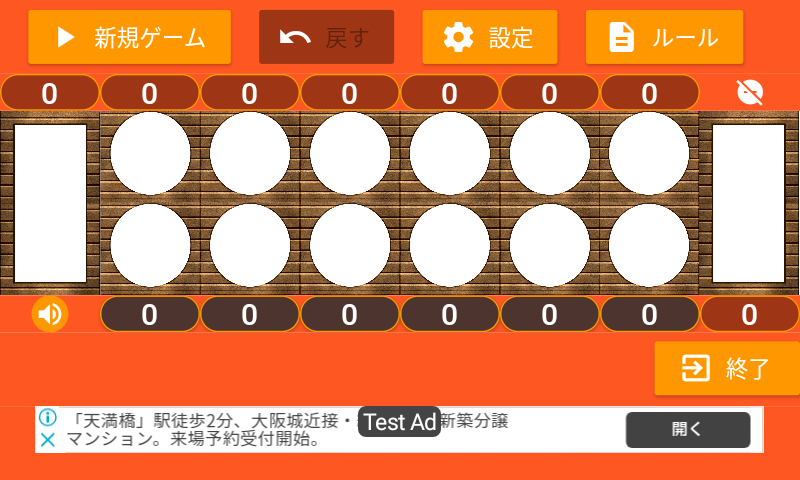
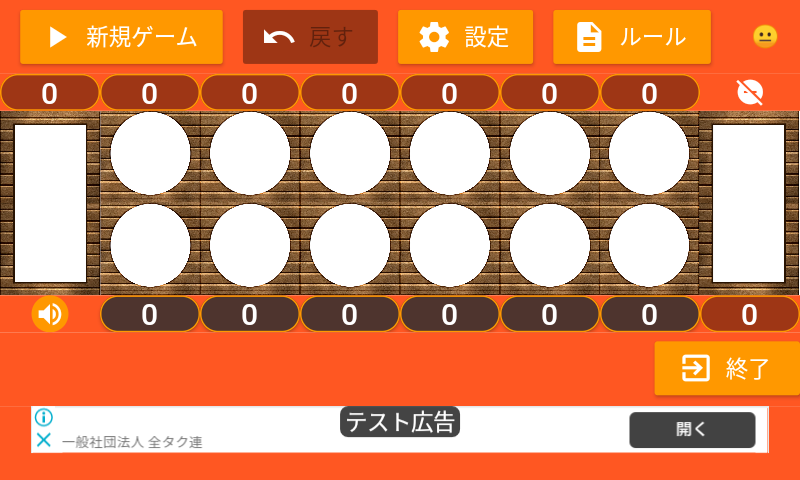
refactor: mancalanuts.md update

Changed region(s): [[0.0, 0.0, 0.9688, 0.1562], [0.0312, 0.8438, 0.6562, 0.9375], [0.7812, 0.8438, 0.9688, 0.9375]]

diff --git a/project/2020-08-10/mancalanuts.html b/project/2020-08-10/mancalanuts.html
@@ -195,11 +195,10 @@ MathJax.Hub.Config({
     <div class="container-narrow">
       <div class="row-fluid">
         <div class="span3">
-        <a href="https://twitter.com/share" class="twitter-share-button"{count} data-via="SappierBoy">Tweet</a>
+        <a href="https://twitter.com/share" class="twitter-share-button" data-via="SappierBoy">Tweet</a>
         <script>!function(d,s,id){var js,fjs=d.getElementsByTagName(s)[0],p=/^http:/.test(d.location)?'http':'https';if(!d.getElementById(id)){js=d.createElement(s);js.id=id;js.src=p+'://platform.twitter.com/widgets.js';fjs.parentNode.insertBefore(js,fjs);}}(document, 'script', 'twitter-wjs');</script>
         </div>
-        <div class="span9"
-             <!-- Html Elements for Search -->
+        <div class="span9" html elements for search>
              <div id="search-container" align="right">
                <input type="text" id="search-input" placeholder="search...">
                <ul id="results-container"></ul>
@@ -230,16 +229,16 @@ MathJax.Hub.Config({
       <span>10 August 2020</span>
     </div>
     <div class="content">
-      <p><a href="https://taimienphi.vn/download-mancala-nuts-90337"><img src="/images/tmp2.png" alt="マンカラアプリ" title="マンカラ ナッツ" width="155" height="60" /></a>
-<a href="https://play.google.com/store/apps/details?id=mancala.io.github.happyclam"><img src="/images/ja_badge_web_generic.png" alt="マンカラアプリ" title="マンカラ ナッツ" width="155" height="60" /></a>
-<a href="https://www.amazon.co.jp/happyclam-マンカラ-ナッツ/dp/B08D8QVVQY/ref=sr_1_10?__mk_ja_JP=カタカナ&amp;dchild=1&amp;keywords=マンカラ&amp;qid=1595382601&amp;s=mobile-apps&amp;sr=1-10"><img src="/images/amazon-appstore-badge-jp-white.png" alt="マンカラアプリ" title="マンカラ ナッツ" width="155" height="60" /></a>
-<br /><a href="https://taimienphi.vn" title="download">taimienphi.vn</a></p>
+      <p><a href="https://taimienphi.vn/download-mancala-nuts-90337"><img src="/images/tmp2.png" alt="マンカラアプリ" title="マンカラ ナッツ" width="155" height="60"></a>
+<a href="https://play.google.com/store/apps/details?id=mancala.io.github.happyclam"><img src="/images/ja_badge_web_generic.png" alt="マンカラアプリ" title="マンカラ ナッツ" width="155" height="60"></a>
+<a href="https://www.amazon.co.jp/happyclam-%E3%83%9E%E3%83%B3%E3%82%AB%E3%83%A9-%E3%83%8A%E3%83%83%E3%83%84/dp/B08D8QVVQY/ref=sr_1_10?__mk_ja_JP=%E3%82%AB%E3%82%BF%E3%82%AB%E3%83%8A&amp;dchild=1&amp;keywords=%E3%83%9E%E3%83%B3%E3%82%AB%E3%83%A9&amp;qid=1595382601&amp;s=mobile-apps&amp;sr=1-10"><img src="/images/amazon-appstore-badge-jp-white.png" alt="マンカラアプリ" title="マンカラ ナッツ" width="155" height="60"></a>
+<br><a href="https://taimienphi.vn" title="download">taimienphi.vn</a></p>
 
 <h3 id="マンカラ-ナッツについて">「マンカラ ナッツ」について</h3>
 <p>　対人戦の途中でＡＩ対戦に切り替えたり、ＡＩ対戦の途中で対人戦に切り替えたりして、マンカラの特定の局面での最善手の研究にも使えるように配慮したマンカラアプリです。</p>
 
 <h3 id="ルール">ルール</h3>
-<p>　数あるマンカラのルールの中で、<code>カラハ（Karah）</code>と呼ばれるルールを採用しています。<br />
+<p>　数あるマンカラのルールの中で、<code>カラハ（Karah）</code>と呼ばれるルールを採用しています。<br>
 　上下２列に並んだ６つのポケットに豆が入っていて、上がAI、下があなたです。丸い６つのポケットからどれかを選んで豆を取り出し、反時計回りに豆を一つずつポケットに撒いていきます。どちらかの６つのポケットが全て空になったらゲーム終了し、右側の四角い自分の貯蔵所に残った豆の数で勝ち負けを判定します。</p>
 <ul>
   <li>相手の貯蔵所には豆を撒きません。</li>
@@ -256,57 +255,112 @@ MathJax.Hub.Config({
   <li>豆選択（コーヒー、ピスタチオ、アーモンド）機能</li>
   <li>豆の数選択機能（３個、４個、５個から選択）</li>
   <li>対戦成績保存機能（ゲーム途中で設定を変更した場合は対戦成績には記録されません）</li>
-  <li>多言語対応、日<code>ja</code>, 英<code>en</code>, 越<code>vi</code></li>
+  <li>多言語対応、日<code>ja</code>, 英<code>en</code>, 越<code>vi</code>
+</li>
+  <li>AI対戦時の形勢判断Emoji表示機能</li>
 </ul>
 
 <h3 id="ａｉ対戦">ＡＩ対戦</h3>
 <div style="width:320px; margin: 0 auto;">
-  <p><a href="/images/mancala_screen1.png"><img src="/images/mancala_screen1.png" alt="ＡＩ対戦画面" title="ＡＩ対戦画面" /></a></p>
+  <p><a href="/images/mancala_screen1.png"><img src="/images/mancala_screen1.png" alt="ＡＩ対戦画面" title="ＡＩ対戦画面"></a></p>
 </div>
 
 <ul>
-  <li><code>新規ゲーム(New Game)</code>ボタンで新規対局開始されます。</li>
+  <li>
+<code>新規ゲーム(New Game)</code>ボタンで新規対局開始されます。</li>
   <li>ＡＩの対戦途中に強さ設定を変更すると、そのゲーム結果は対戦成績に記録されません。</li>
   <li>ＡＩ対戦の場合は<code>戻す(Undo)</code>ボタンで一つ前の人間の手番まで戻ります。ＡＩが連続で複数回着手していた場合も複数手分のＡＩの指し手を飛ばして、一つ前の人間の手番の局面に戻ります。</li>
-  <li><code>戻す(Undo)</code>ボタンを使用すると対戦成績には記録されません。</li>
+  <li>
+<code>戻す(Undo)</code>ボタンを使用すると対戦成績には記録されません。</li>
   <li>AIの静的評価関数は<code>先手の貯蔵所に溜まった豆の数 - 後手の貯蔵所に溜まった豆の数</code>で、MIN-MAX法（+ αβ法）を使って先読みを行い指し手を決めます。
     <ul>
-      <li><code>弱い(Easy)</code> = ３手読み</li>
-      <li><code>強い(Hard)</code> = ８手読み</li>
-      <li><code>やばい(Expert)</code> = １１手読み</li>
+      <li>
+<code>弱い(Easy)</code> = １手読み</li>
+      <li>
+<code>強い(Hard)</code> = ６手読み</li>
+      <li>
+<code>やばい(Expert)</code> = ９手読み</li>
     </ul>
   </li>
 </ul>
 
+<h4 id="形勢emoji表示">形勢Emoji表示</h4>
+<div style="width:320px; margin: 0 auto;">
+  <p><a href="/images/mancala_screen5.png"><img src="/images/mancala_screen5.png" alt="ＡＩ形勢Emoji" title="ＡＩ形勢Emoji"></a></p>
+</div>
+
+<p>　<code>AI対戦(One Player)</code>時に画面右上に形勢判断用のEmojiを表示します。</p>
+
+<table>
+  <thead>
+    <tr>
+      <th style="text-align: center">Emoji</th>
+      <th style="text-align: left">文字コード</th>
+      <th style="text-align: left">意味</th>
+    </tr>
+  </thead>
+  <tbody>
+    <tr>
+      <td style="text-align: center"><img class="emoji" title=":laughing:" alt=":laughing:" src="https://github.githubassets.com/images/icons/emoji/unicode/1f606.png" height="20" width="20"></td>
+      <td style="text-align: left">U+1F923</td>
+      <td style="text-align: left">ＡＩが勝ちを確信。逆転は難しいでしょう。</td>
+    </tr>
+    <tr>
+      <td style="text-align: center"><img class="emoji" title=":grin:" alt=":grin:" src="https://github.githubassets.com/images/icons/emoji/unicode/1f601.png" height="20" width="20"></td>
+      <td style="text-align: left">U+1F601</td>
+      <td style="text-align: left">ＡＩが優勢を意識。</td>
+    </tr>
+    <tr>
+      <td style="text-align: center"><img class="emoji" title=":neutral_face:" alt=":neutral_face:" src="https://github.githubassets.com/images/icons/emoji/unicode/1f610.png" height="20" width="20"></td>
+      <td style="text-align: left">U+1F610</td>
+      <td style="text-align: left">ＡＩは互角と判断。</td>
+    </tr>
+    <tr>
+      <td style="text-align: center"><img class="emoji" title=":frowning:" alt=":frowning:" src="https://github.githubassets.com/images/icons/emoji/unicode/1f626.png" height="20" width="20"></td>
+      <td style="text-align: left">U+1F641</td>
+      <td style="text-align: left">ＡＩは劣勢を意識。</td>
+    </tr>
+    <tr>
+      <td style="text-align: center"><img class="emoji" title=":tired_face:" alt=":tired_face:" src="https://github.githubassets.com/images/icons/emoji/unicode/1f62b.png" height="20" width="20"></td>
+      <td style="text-align: left">U+1F62B</td>
+      <td style="text-align: left">ＡＩが負けを覚悟。但し、勝負はあなたの着手しだいです。</td>
+    </tr>
+  </tbody>
+</table>
+
+<p>※このページのEmojiは実際のAndroid端末で表示されるEmojiとは若干表示が異なるケースがあります。</p>
+
 <h3 id="対人対戦">対人対戦</h3>
 <div style="width:320px; margin: 0 auto;">
-  <p><a href="/images/mancala_screen2.png"><img src="/images/mancala_screen2.png" alt="対人対戦画面" title="対人対戦画面" /></a></p>
+  <p><a href="/images/mancala_screen2.png"><img src="/images/mancala_screen2.png" alt="対人対戦画面" title="対人対戦画面"></a></p>
 </div>
 
 <ul>
-  <li><code>新規ゲーム(Play)</code>ボタンでゲーム開始、<code>中止(Stop)</code>ボタンでゲームを中断します。</li>
+  <li>
+<code>新規ゲーム(Play)</code>ボタンでゲーム開始、<code>中止(Stop)</code>ボタンでゲームを中断します。</li>
   <li>ゲーム途中でＡＩ対戦に戻すことも出来ます。途中からＡＩ対戦に切り替えても、勝敗は対戦成績には記録されません。</li>
   <li>対人対戦の場合は<code>戻す(Undo)</code>ボタンで一手ずつ前の局面に戻ります。</li>
 </ul>
 
 <h3 id="設定画面">設定画面</h3>
 <div style="width:320px; margin: 0 auto;">
-  <p><a href="/images/mancala_screen3.png"><img src="/images/mancala_screen3.png" alt="設定画面" title="設定画面" /></a></p>
+  <p><a href="/images/mancala_screen3.png"><img src="/images/mancala_screen3.png" alt="設定画面" title="設定画面"></a></p>
 </div>
 
 <ul>
   <li>ゲームに使用する豆は<code>コーヒー(Coffee)</code>、<code>ピスタチオ(Pistachio)</code>、<code>アーモンド(Almond)</code>の３種類から選べます。</li>
   <li>初期の豆の数は３個、４個、５個の３種類から選べます。</li>
   <li>ＡＩの強さレベルは<code>弱い(Easy)</code>、<code>強い(Hard)</code>、<code>やばい(Expert)</code>の３種類から選べます。</li>
-  <li><code>AI対戦(One Player)</code>を選ぶとＡＩ対戦、<code>対人対戦(Two Players)</code>を選ぶと対人戦が可能です。</li>
+  <li>
+<code>AI対戦(One Player)</code>を選ぶとＡＩ対戦、<code>対人対戦(Two Players)</code>を選ぶと対人戦が可能です。</li>
   <li>ＡＩ対戦途中で設定内容を変更した場合そのＡＩ対戦の結果は対戦成績に保存されません。</li>
   <li>同じパターンの指し手を避けるため、ＡＩのレベル<code>弱い(Easy)</code>と<code>強い(Hard)</code>では、初手はランダムに選ぶようにしています。<code>やばい(Expert)</code>はガチで指し手を決めます<sup id="fnref:1"><a href="#fn:1" class="footnote">1</a></sup>。</li>
-  <li>全てのＡＩのレベルで、同じ評価値の場合はランダムに指し手を選択するようにしていますので、同じ局面で常に同じ指し手を選ぶとは限りません。と言ってもマンカラの場合、読みの深さが同じ場合は複数の指し手で同じ評価値になるケースはあまりないようです。</li>
+  <li>全てのＡＩのレベルで、同じ評価値の場合はランダムに指し手を選択するようにしていますので、同じ局面で常に同じ指し手を選ぶとは限りません<sup id="fnref:2"><a href="#fn:2" class="footnote">2</a></sup>。</li>
 </ul>
 
 <h3 id="ゲーム成績画面">ゲーム成績画面</h3>
 <div style="width:320px; margin: 0 auto;">
-  <p><a href="/images/mancala_screen4.png"><img src="/images/mancala_screen4.png" alt="ＡＩ対戦成績画面" title="ＡＩ対戦成績画面" /></a></p>
+  <p><a href="/images/mancala_screen4.png"><img src="/images/mancala_screen4.png" alt="ＡＩ対戦成績画面" title="ＡＩ対戦成績画面"></a></p>
 </div>
 
 <ul>
@@ -314,12 +368,15 @@ MathJax.Hub.Config({
   <li>豆の数（３、４、５）別に対戦成績が記録されます。表の左上の数字はゲーム開始時に配置されている豆の数です。</li>
 </ul>
 
-<hr />
+<hr>
 
 <div class="footnotes">
   <ol>
     <li id="fn:1">
-      <p>一時期<code>やばい(Expert)</code>モードでも初手をランダムにしてリリースしていた時期がありましたが、マンカラの場合、初手に悪手を選ぶとその段階で回復不可能な程形勢を大きく損ねるようなので、<code>やばい(Expert)</code>の時だけは初手のランダム指し手を止めました。将棋やチェスなどと較べると初手から既に勝敗に大きく関わるようです。 <a href="#fnref:1" class="reversefootnote">&#8617;</a></p>
+      <p>一時期<code>やばい(Expert)</code>モードでも初手をランダムにしてリリースしていた時期がありましたが、マンカラの場合、初手に悪手を選ぶとその段階で回復不可能な程形勢を大きく損ねるようなので、<code>やばい(Expert)</code>の時だけは初手のランダム指し手を止めました。将棋やチェスなどと較べると初手から既に勝敗に大きく関わるようです。 <a href="#fnref:1" class="reversefootnote">↩</a></p>
+    </li>
+    <li id="fn:2">
+      <p><code>戻す(Undo)</code>ボタンで数手前の局面に戻してからAI対戦を再開しても、前回と同じ局面になるとは限りませんのでご注意ください。ゲーム途中で設定を<code>対人対戦(Two Players)</code>に変更して、気になる局面を再現してから<code>AI対戦(One Player)</code>に切り替えることは可能です。 <a href="#fnref:2" class="reversefootnote">↩</a></p>
     </li>
   </ol>
 </div>
@@ -373,13 +430,15 @@ MathJax.Hub.Config({
     <div class="pagination">
       <ul>
       
-        <li class="prev"><a href="/software/2020-08-09/mancala_easy" title="マンカラの必勝手順の有無（続編）">&larr; Previous</a></li>
+        <li class="prev"><a href="/software/2020-08-09/mancala_easy" title="マンカラの必勝手順の有無（続編）">← Previous</a></li>
       
         <li><a href="/archive.html">Archive</a></li>
       
-        <li class="next disabled"><a>Next &rarr;</a>
+        <li class="next disabled">
+<a>Next →</a>
       
-      </ul>
+      </li>
+</ul>
     </div>
     <hr>
     
@@ -397,7 +456,8 @@ MathJax.Hub.Config({
         (document.getElementsByTagName('head')[0] || document.getElementsByTagName('body')[0]).appendChild(dsq);
     })();
 </script>
-<noscript>Please enable JavaScript to view the <a href="http://disqus.com/?ref_noscript">comments powered by Disqus.</a></noscript>
+<noscript>Please enable JavaScript to view the <a href="http://disqus.com/?ref_noscript">comments powered by Disqus.</a>
+</noscript>
 <a href="http://disqus.com" class="dsq-brlink">blog comments powered by <span class="logo-disqus">Disqus</span></a>
 
 
@@ -425,12 +485,13 @@ s.setAttribute('data-timestamp', +new Date());
 (d.head || d.body).appendChild(s);
 })();
 </script>
-<noscript>Please enable JavaScript to view the <a href="https://disqus.com/?ref_noscript">comments powered by Disqus.</a></noscript>
+<noscript>Please enable JavaScript to view the <a href="https://disqus.com/?ref_noscript">comments powered by Disqus.</a>
+</noscript>
 
       </div>
       <hr>
       <footer>
-        <p>&copy; 2020 happyclam
+        <p>© 2020 happyclam
           with help from <a href="http://jekyllbootstrap.com" target="_blank" title="The Definitive Jekyll Blogging Framework">Jekyll Bootstrap</a>
           and <a href="http://twitter.github.com/bootstrap/" target="_blank">Twitter Bootstrap</a>
         </p>
